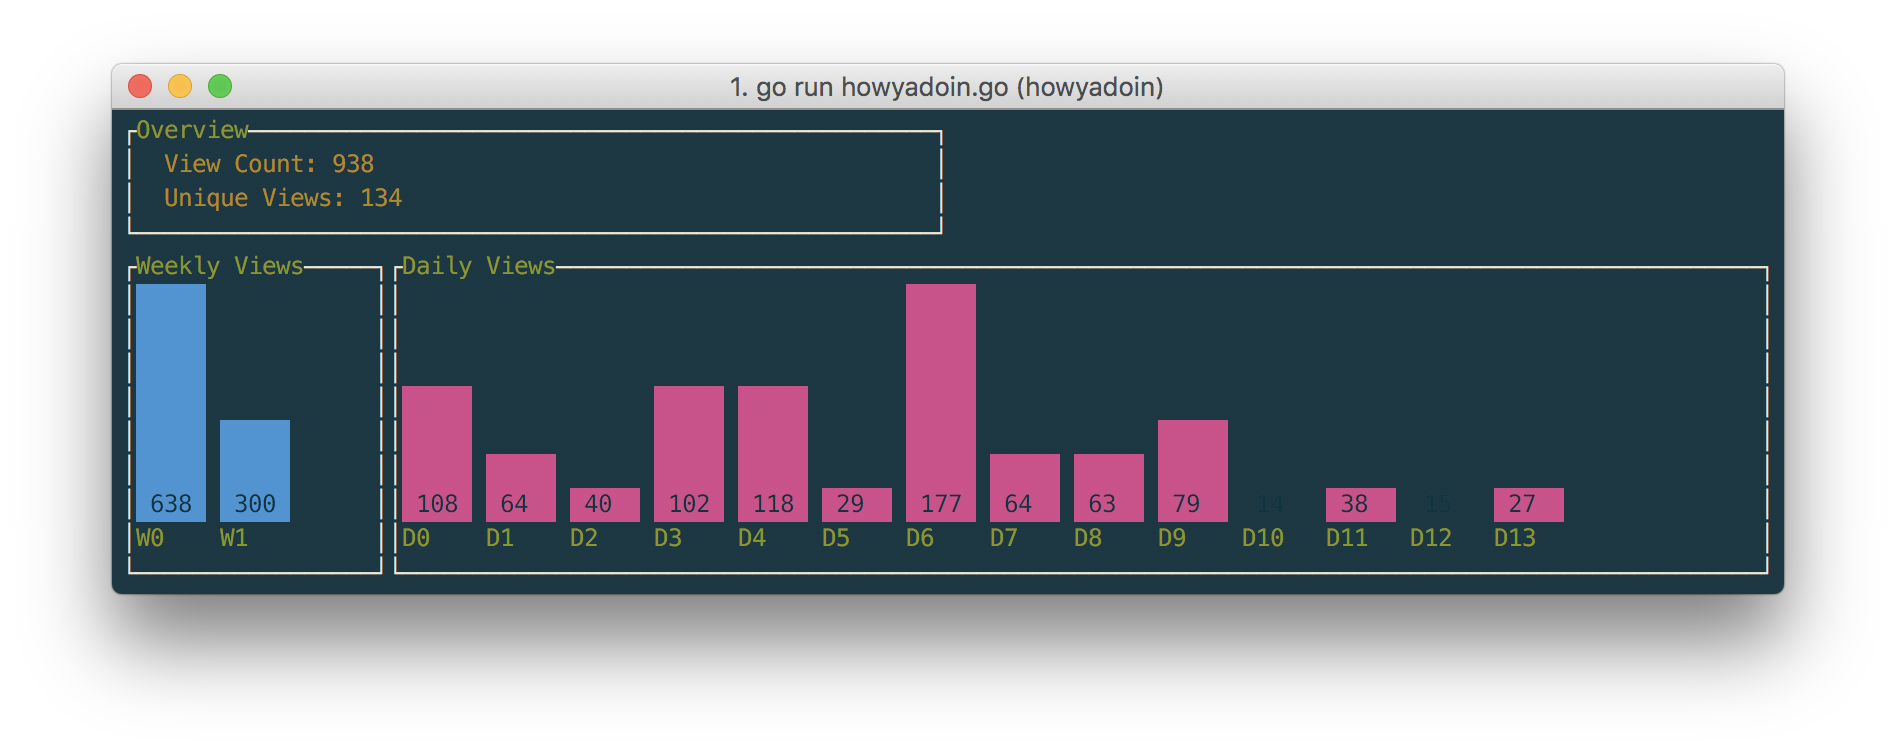
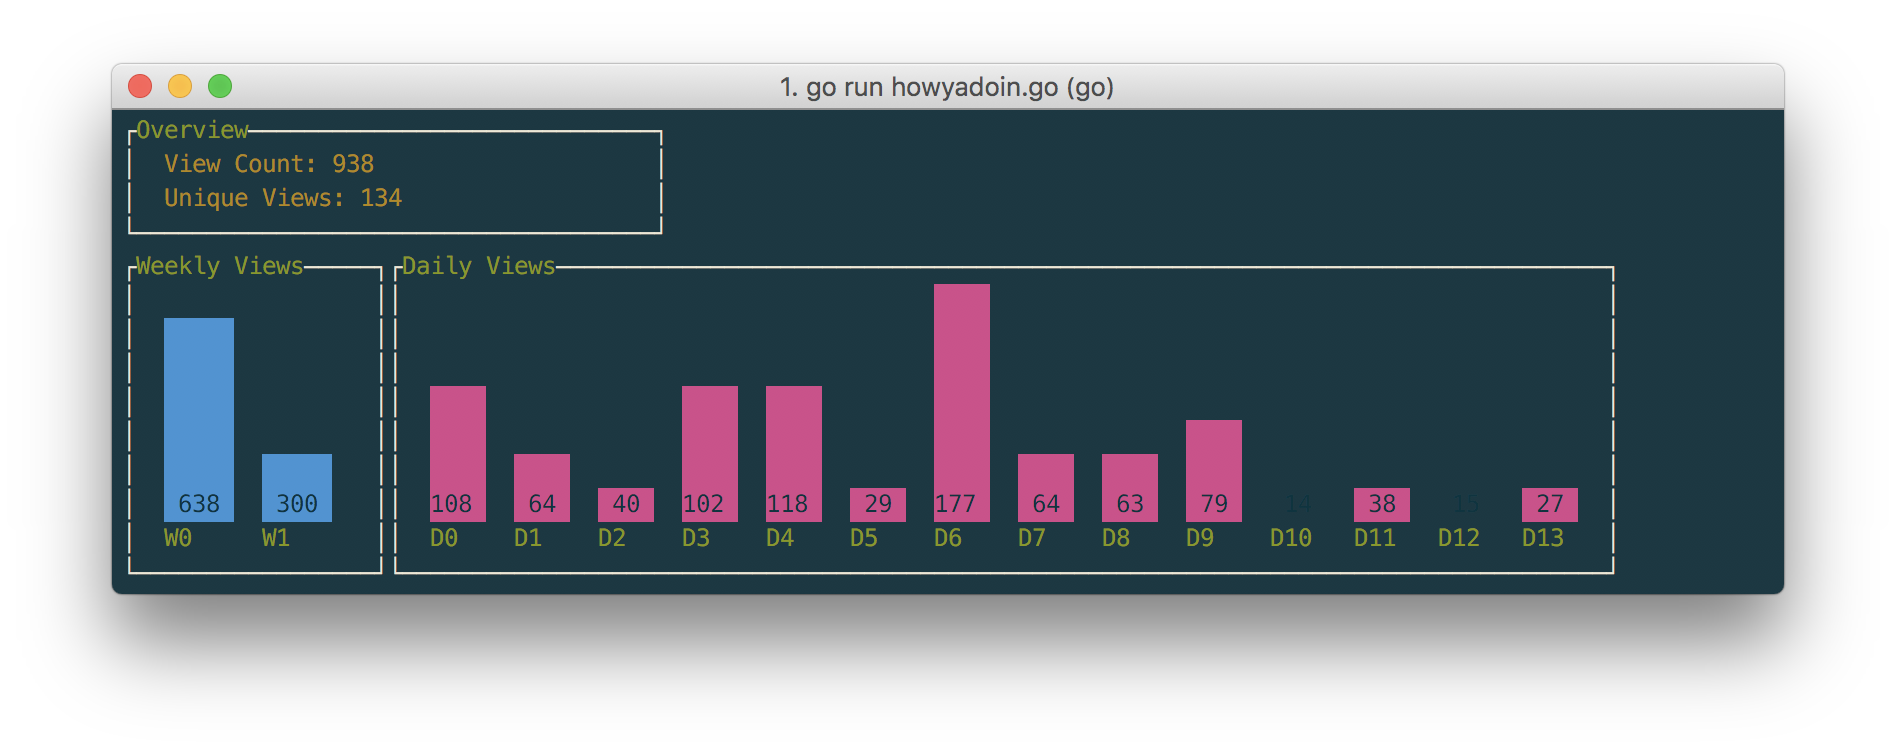
update style

diff --git a/howyadoin.go b/howyadoin.go
@@ -86,19 +86,35 @@ func main() {
 	weekWidget.Height = 10
 	weekWidget.BarColor = termui.ColorBlue
 	weekWidget.BarWidth = 5
+	weekWidget.BarGap = 2
 	weekWidget.DataLabels = bclabels
 	weekWidget.TextColor = termui.ColorGreen
 	weekWidget.NumColor = termui.ColorBlack
+	weekWidget.PaddingTop = 1
+	weekWidget.PaddingLeft = 2
 	// Daily View Widget
 	dayWidget := termui.NewBarChart()
 	dayWidget.BorderLabel = "Daily Views"
 	dayWidget.Data = dayViews
 	dayWidget.Height = 10
 	dayWidget.BarColor = termui.ColorMagenta
-	dayWidget.BarWidth = 5
+	dayWidget.BarWidth = 4
+	dayWidget.BarGap = 2
 	dayWidget.DataLabels = []string{"D0", "D1", "D2", "D3", "D4", "D5", "D6", "D7", "D8", "D9", "D10", "D11", "D12", "D13", "D14", "D15", "D16", "D17", "D18"}
 	dayWidget.TextColor = termui.ColorGreen
 	dayWidget.NumColor = termui.ColorBlack
+	// dayWidget.PaddingTop = 1
+	dayWidget.PaddingLeft = 2
+
+	// dayWidget := termui.NewLineChart()
+	// dayWidget.BorderLabel = "Daily Views"
+	// dayWidget.Data = dayViews
+	// dayWidget.Mode = "dot"
+	// dayWidget.DotStyle = '*'
+	// // dayWidget.Width = 50
+	// dayWidget.Height = 10
+	// dayWidget.AxesColor = termui.ColorWhite
+	// dayWidget.LineColor = termui.ColorGreen | termui.AttrBold
 
 	// spl3 := termui.NewSparkline()
 	// spl3.Data = dayViews
@@ -117,10 +133,10 @@ func main() {
 	// build
 	termui.Body.AddRows(
 		termui.NewRow(
-			termui.NewCol(6, 0, overviewWidget)),
+			termui.NewCol(4, 0, overviewWidget)),
 		termui.NewRow(
 			termui.NewCol(2, 0, weekWidget),
-			termui.NewCol(10, 0, dayWidget)))
+			termui.NewCol(9, 0, dayWidget)))
 
 	// calculate layout
 	termui.Body.Align()
